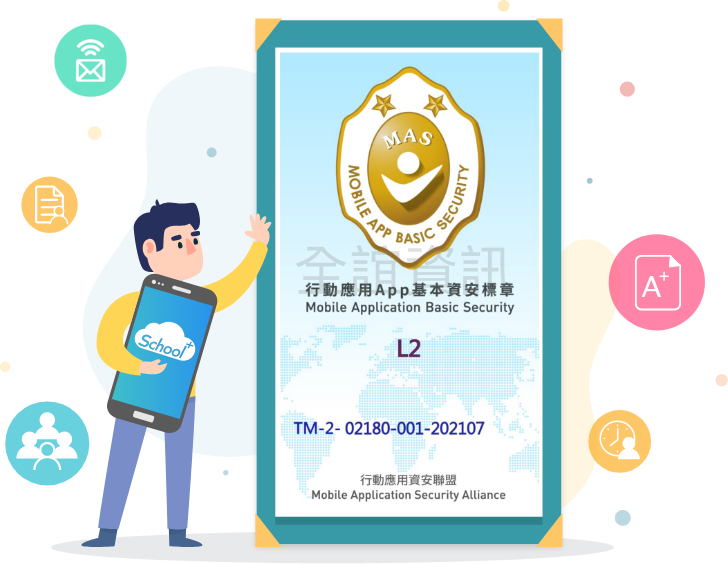
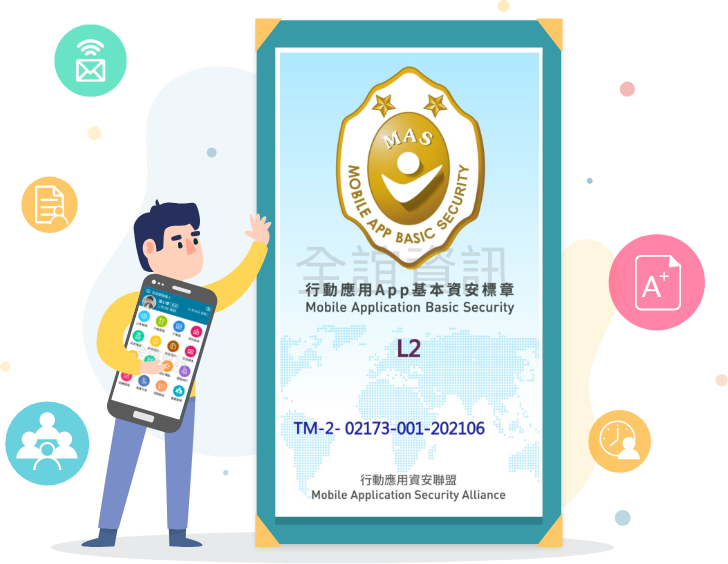
123

Changed region(s): [[0.1511, 0.5124, 0.3022, 0.7535], [0.6346, 0.7535, 0.6648, 0.7837], [0.5137, 0.7535, 0.544, 0.7837]]

diff --git a/alle_web/app.html b/alle_web/app.html
@@ -94,7 +94,8 @@
           <img src="img/APP_interface_introduction/info-security-01.jpg" alt="">
         </div>
         <div class="info-security-words">
-          <span>School<sup>+</sup>APP通過「行動應用APP基本資安標章-L2級」</span>
+          <!-- <span>School<sup>+</sup>APP -->
+          <span>通過「行動應用APP基本資安標章-L2級」</span>
           <span>符合資安標準，請安心使用</span>
         </div>
       </div>

diff --git a/alle_web/css/style.css b/alle_web/css/style.css
@@ -2867,16 +2867,17 @@ div#preloader {
 
 .info-security-words{
   color: #364051;
-    font-size: 18px;
+    font-size: 20px;
     font-weight: 500;
-    border-radius: 20px;
-    padding: 33px 20px;
+    border-radius: 32px;
+    padding: 33px 32px;
     border: solid 1px #dcdcdc;
     width: calc(60% - 60px);
+    line-height: 2em;
 }
 
 .info-security-words > span:first-child{
-  margin-bottom: 8px;
+  /* margin-bottom: 8px; */
   display: inline-block;
 }
 
